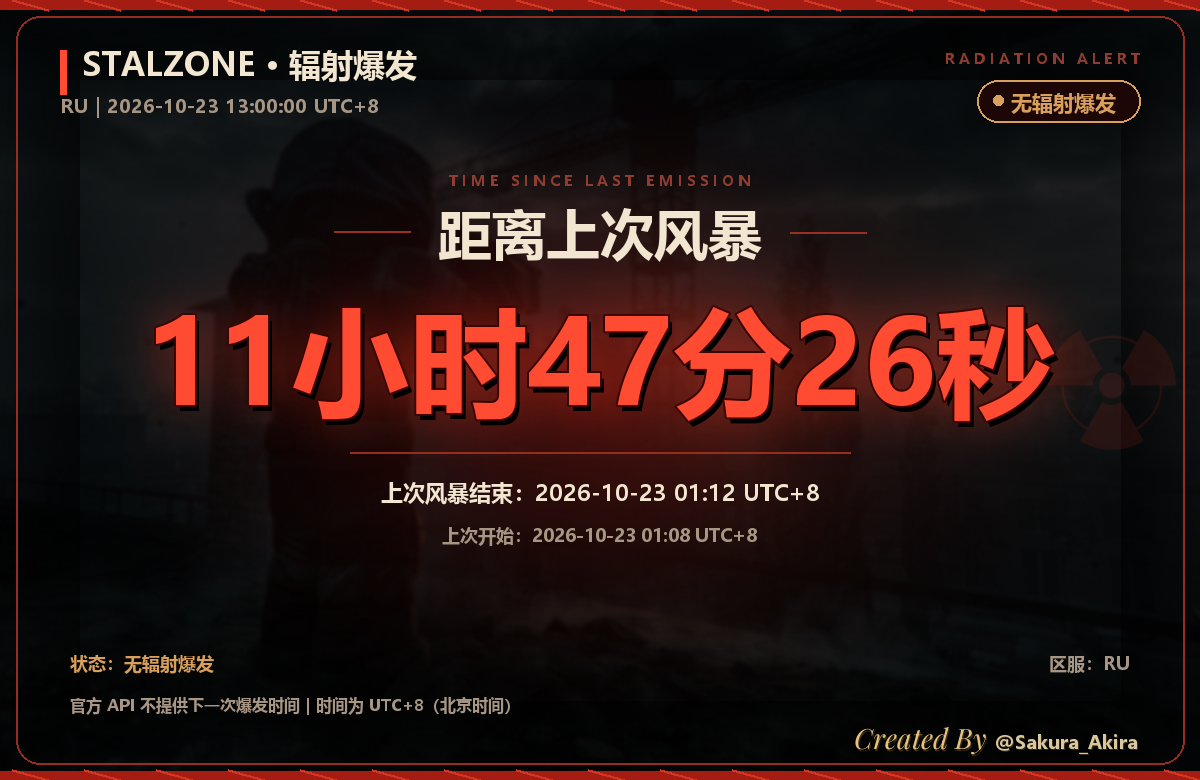
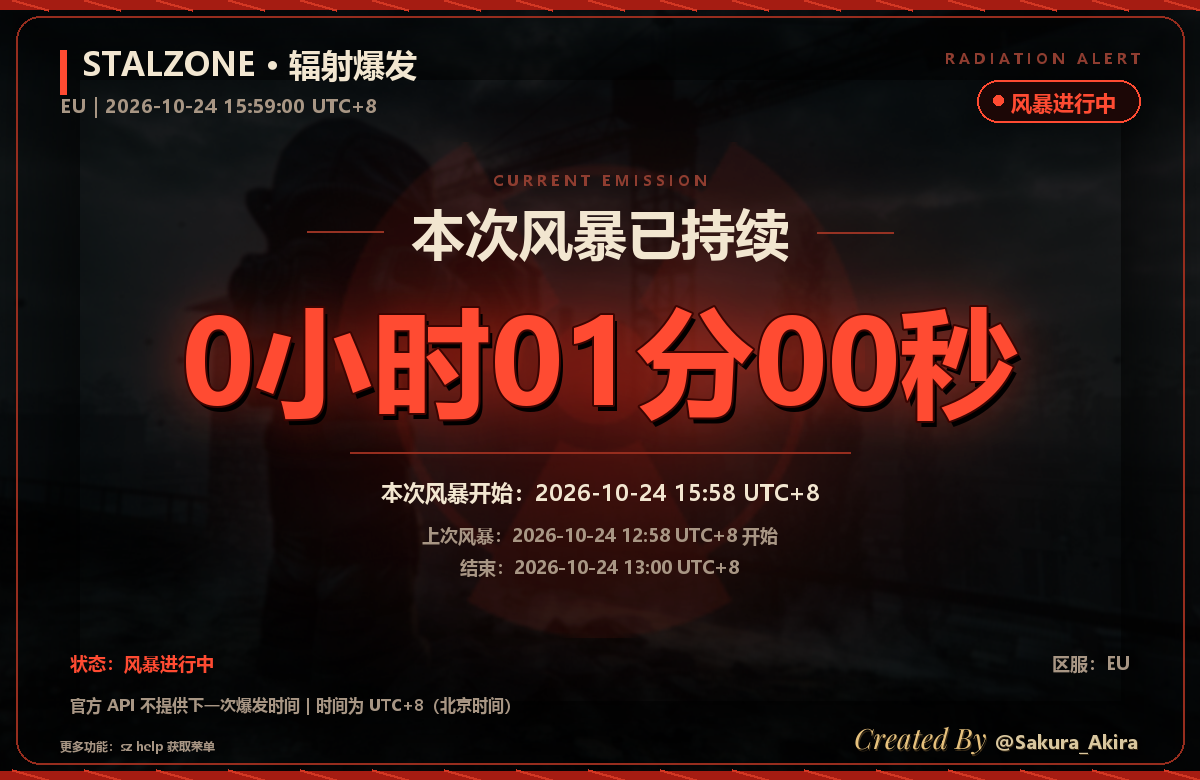
style: refine emission watermark and card footers
Center and soften the radiation watermark, use the real storm start in the auto alert, add artifact-window guidance, and add a theme-matched sz help hint to every non-help card.

diff --git a/image_renderer.py b/image_renderer.py
@@ -40,6 +40,7 @@ SIGNATURE_NAME = "@Sakura_Akira"
 SIGNATURE = f"{SIGNATURE_PREFIX} {SIGNATURE_NAME}"
 SIGNATURE_COLOR = "#e7c27d"
 SIGNATURE_HEIGHT = 38
+MORE_FEATURES_TIP = "更多功能：sz help 获取菜单"
 RANK_COLORS = {
     "newbie": "#53C353",
     "stalker": "#4EA8FF",
@@ -949,13 +950,17 @@ def _emission_canvas(width: int, height: int) -> Any:
     icon_path = Path(__file__).with_name("assets") / "factions" / "stalkers.png"
     try:
         icon = Image.open(icon_path).convert("RGBA")
-        icon.thumbnail((560, 560), Image.LANCZOS)
-        alpha = icon.getchannel("A").point(lambda value: int(value * 0.14))
+        icon_size = max(380, int(min(width, height) * 0.68))
+        scale = icon_size / max(icon.size)
+        icon = icon.resize(
+            (int(icon.width * scale), int(icon.height * scale)), Image.LANCZOS
+        )
+        alpha = icon.getchannel("A").point(lambda value: int(value * 0.10))
         tint = Image.new("RGBA", icon.size, (190, 38, 22, 255))
         tint.putalpha(alpha)
         canvas.alpha_composite(
             tint,
-            (width - icon.width - 24, max(120, (height - icon.height) // 2)),
+            ((width - icon.width) // 2, (height - icon.height) // 2),
         )
     except Exception:
         pass
@@ -980,7 +985,7 @@ def render_emission_alert_card(
     *,
     font_path: str | None = None,
     width: int = 1200,
-    height: int = 660,
+    height: int = 700,
 ) -> Path | None:
     """Render the proactive "emission started" alert in the same poster style."""
     if (
@@ -1007,6 +1012,8 @@ def render_emission_alert_card(
         small_font = ImageFont.truetype(str(path), 16)
         chip_font = ImageFont.truetype(str(path), 18)
         action_font = ImageFont.truetype(str(path), 27)
+        artifact_font = ImageFont.truetype(str(path), 20)
+        tip_font = ImageFont.truetype(str(path), 14)
     except Exception:
         return None
 
@@ -1059,29 +1066,52 @@ def render_emission_alert_card(
     )
     draw.text(
         (centre, 390),
-        f"开始于 {view.get('start_date', '')}  ·  {view.get('region', '')}",
+        f"实际开始于 {view.get('start_date', '')}  ·  {view.get('region', '')}",
         font=sub_font, fill=bone, anchor="mm",
     )
     draw.text(
         (centre, 424),
-        f"检测时已持续 {view.get('elapsed_text', '—')}",
+        f"已持续 {view.get('elapsed_text', '—')}",
         font=small_font, fill=muted, anchor="mm",
     )
-    draw.text((centre, 480), "请尽快上线", font=action_font, fill=ember, anchor="mm")
-
-    draw.line((pad, 530, width - pad, 530), fill=(150, 45, 30, 130), width=1)
     draw.text(
-        (pad, 546),
-        f"检测时间：{view.get('detected_time', '')}",
+        (centre, 466),
+        str(view.get("artifact_notice") or "风暴结束后 30 分钟内将伴随神器爆发"),
+        font=artifact_font, fill="#ffb27a", anchor="mm",
+    )
+    draw.text((centre, 506), "请尽快上线", font=action_font, fill=ember, anchor="mm")
+
+    draw.line((pad, 546, width - pad, 546), fill=(150, 45, 30, 130), width=1)
+    draw.text(
+        (pad, 562),
+        f"实际开始：{view.get('start_time', '')}",
         font=small_font, fill=muted,
     )
     draw.text(
-        (width - pad, 546),
+        (width - pad, 562),
         "自动检测 · 官方 API · UTC+8",
         font=small_font, fill=muted, anchor="ra",
     )
+    draw.text(
+        (pad, height - 70),
+        str(view.get("more_tip") or "更多功能：sz help 获取菜单"),
+        font=tip_font,
+        fill=muted,
+    )
+    draw.text(
+        (pad, height - 42),
+        str(view.get("artifact_tip") or "Tip：神器会在大世界的各处异常点中生成"),
+        font=tip_font,
+        fill=muted,
+    )
     _draw_signature(
-        draw, width, height - 48, path, small_font, max_bottom=height,
+        draw,
+        width,
+        height - 58,
+        path,
+        small_font,
+        max_bottom=height,
+        more_tip=False,
     )
 
     out_dir = Path(tempfile.gettempdir()) / "astrbot_plugin_stalzone"
@@ -1291,6 +1321,8 @@ def render_emission_card(
         small_font,
         right_margin=62,
         max_bottom=height,
+        tip_color=muted,
+        tip_x=pad,
     )
 
     out_dir = Path(tempfile.gettempdir()) / "astrbot_plugin_stalzone"
@@ -1502,6 +1534,7 @@ def render_help_card(
         small_font,
         right_margin=60,
         max_bottom=height,
+        more_tip=False,
     )
 
     if output is not None:
@@ -1552,6 +1585,9 @@ def _draw_signature(
     *,
     right_margin: int = PAD,
     max_bottom: int | None = None,
+    more_tip: bool = True,
+    tip_color: str = MUTED,
+    tip_x: int = PAD,
 ) -> int:
     """Draw the bottom-right artistic signature with a shared text baseline."""
     if ImageFont is None:
@@ -1586,6 +1622,22 @@ def _draw_signature(
     baseline = y + max(art_ascent, name_ascent)
     art_top = baseline - art_ascent
     name_top = baseline - name_ascent
+    if more_tip:
+        tip_font = None
+        for size in (12, 11):
+            try:
+                tip_font = ImageFont.truetype(str(name_path or art_path), size)
+                break
+            except Exception:
+                continue
+        if tip_font is not None:
+            bottom = int(max_bottom) if max_bottom is not None else int(y + 44)
+            draw.text(
+                (tip_x, bottom - 42),
+                MORE_FEATURES_TIP,
+                font=tip_font,
+                fill=tip_color,
+            )
     # Soft drop shadow + gold script text; both parts share one baseline.
     draw.text(
         (x + 1, art_top + 2),
@@ -1978,7 +2030,13 @@ def render_profile_card(
         font=small_font, fill=MUTED,
     )
     _draw_signature(
-        draw, width, footer_y + 62, path, small_font, max_bottom=height,
+        draw,
+        width,
+        footer_y + 62,
+        path,
+        small_font,
+        max_bottom=height,
+        tip_x=60,
     )
 
     out_dir = Path(tempfile.gettempdir()) / "astrbot_plugin_stalzone"
@@ -2404,7 +2462,9 @@ def render_pass_card(
         (PAD, footer_y + 12), str(view.get("footer") or ""),
         font=small_font, fill=MUTED,
     )
-    _draw_signature(draw, W, height - 58, path, small_font, max_bottom=height)
+    _draw_signature(
+        draw, W, height - 58, path, small_font, max_bottom=height, tip_x=PAD
+    )
 
     out_dir = Path(tempfile.gettempdir()) / "astrbot_plugin_stalzone"
     out_dir.mkdir(parents=True, exist_ok=True)
@@ -2647,6 +2707,7 @@ def render_candidate_card(
         footer_font,
         right_margin=58,
         max_bottom=height,
+        tip_x=pad,
     )
 
     out_dir = Path(tempfile.gettempdir()) / "astrbot_plugin_stalzone"

diff --git a/tests/test_plugin.py b/tests/test_plugin.py
@@ -733,9 +733,26 @@ class FormatterTests(unittest.TestCase):
         self.assertEqual(view["start_clock"], "13:00")
         self.assertEqual(view["start_date"], "2026-10-22")
         self.assertEqual(view["elapsed_text"], "17分00秒")
+        self.assertEqual(view["start_time"], "2026-10-22 13:00:00 UTC+8")
+        self.assertIn("风暴结束后 30 分钟内将伴随神器爆发", view["text"])
+        self.assertIn("Tip：神器会在大世界的各处异常点中生成", view["text"])
+        self.assertIn("更多功能：sz help 获取菜单", view["text"])
         self.assertIn("辐射风暴已开始", view["text"])
         self.assertIn("请尽快上线", view["text"])
+        self.assertNotIn("检测时间", view["text"])
         self.assertEqual(build_emission_alert_view({}, "eu"), {})
+
+    def test_emission_alert_uses_actual_start(self):
+        view = build_emission_alert_view(
+            {"currentStart": "2026-10-22T05:00:00Z"},
+            "eu",
+            now=__import__("datetime").datetime(
+                2026, 10, 22, 5, 1, tzinfo=__import__("datetime").timezone.utc
+            ),
+        )
+        self.assertEqual(view["start_clock"], "13:00")
+        self.assertEqual(view["elapsed_text"], "1分00秒")
+        self.assertIn("实际开始：2026-10-22 13:00:00 UTC+8", view["text"])
 
     def test_profile_fields(self):
         payload = {
@@ -1670,7 +1687,7 @@ class ImageRendererTests(unittest.TestCase):
         path = render_emission_alert_card(view)
         self.assertIsNotNone(path)
         with Image.open(path) as image:
-            self.assertEqual(image.size, (1200, 660))
+            self.assertEqual(image.size, (1200, 700))
         path.unlink(missing_ok=True)
 
     @unittest.skipUnless(find_cjk_font(), "No CJK font installed")

diff --git a/formatters.py b/formatters.py
@@ -1240,7 +1240,6 @@ def build_emission_alert_view(
         now_utc = now_utc.replace(tzinfo=timezone.utc)
     now_utc = now_utc.astimezone(timezone.utc)
     start = current.astimezone(CST)
-    detected = now_utc.astimezone(CST)
     elapsed = max(0, int((now_utc - current).total_seconds()))
     if elapsed >= 3600:
         elapsed_text = format_elapsed_hms(elapsed)
@@ -1254,16 +1253,21 @@ def build_emission_alert_view(
         "start_time": start.strftime("%Y-%m-%d %H:%M:%S") + " UTC+8",
         "start_clock": start.strftime("%H:%M"),
         "start_date": start.strftime("%Y-%m-%d"),
-        "detected_time": detected.strftime("%Y-%m-%d %H:%M:%S") + " UTC+8",
         "elapsed_text": elapsed_text,
+        "artifact_notice": "风暴结束后 30 分钟内将伴随神器爆发",
+        "artifact_tip": "Tip：神器会在大世界的各处异常点中生成",
+        "more_tip": "更多功能：sz help 获取菜单",
         "state_label": "风暴进行中",
         "footer": "自动检测 · 官方 API · UTC+8",
         "text": chr(10).join(
             [
                 f"辐射风暴已开始｜{str(region).upper()}",
-                f"开始时间：{start.strftime('%Y-%m-%d %H:%M:%S')} UTC+8",
+                f"实际开始：{start.strftime('%Y-%m-%d %H:%M:%S')} UTC+8",
                 f"当前已持续：{elapsed_text}",
+                "风暴结束后 30 分钟内将伴随神器爆发。",
                 "请尽快上线。",
+                "Tip：神器会在大世界的各处异常点中生成",
+                "更多功能：sz help 获取菜单",
             ]
         ),
     }

diff --git a/api_client.py b/api_client.py
@@ -29,7 +29,7 @@ DEFAULT_MAX_RETRIES = 2
 DEFAULT_RETRY_BASE_DELAY = 0.5
 RETRY_STATUS_CODES = frozenset({429, 500, 502, 503, 504})
 VALID_REGIONS = frozenset({"ru", "eu", "na", "sea", "nea"})
-USER_AGENT = "astrbot-plugin-stalzone/1.0.34"
+USER_AGENT = "astrbot-plugin-stalzone/1.0.35"
 
 _ITEM_ID_RE = re.compile(r"^[^\x00-\x1f/\\]{1,128}$")
 

diff --git a/main.py b/main.py
@@ -192,7 +192,7 @@ UUID_RE = re.compile(
     r"^[0-9a-fA-F]{8}-[0-9a-fA-F]{4}-[0-9a-fA-F]{4}-[0-9a-fA-F]{4}-[0-9a-fA-F]{12}$"
 )
 ITEM_ID_RE = re.compile(r"^[A-Za-z0-9_-]{1,128}$")
-PLUGIN_VERSION = "1.0.34"
+PLUGIN_VERSION = "1.0.35"
 SZ_BARE_RE = r"(?i)^\s*(?:sz|stalzone)(?:@\S+)?\s+"
 
 

diff --git a/README.md b/README.md
@@ -7,7 +7,7 @@
 拍卖 · 风暴 · 玩家 · 战队 · 物品 · 候选卡 · 通行证计算
 
 ![AstrBot](https://img.shields.io/badge/AstrBot-plugin-5865F2?style=flat-square)
-![Version](https://img.shields.io/badge/version-1.0.34-22c55e?style=flat-square)
+![Version](https://img.shields.io/badge/version-1.0.35-22c55e?style=flat-square)
 ![Python](https://img.shields.io/badge/Python-3.10%2B-3776AB?style=flat-square)
 ![Platform](https://img.shields.io/badge/platform-QQ%20%2F%20OneBot-F97316?style=flat-square)
 ![API](https://img.shields.io/badge/data-Official%20STALZONE%20API-0EA5E9?style=flat-square)
@@ -66,7 +66,7 @@
 | --- | --- |
 | **拍卖行** | 当前在售、最近成交与按日期查询；神器按品质从高到低分组，非神器按 `物品×数量` 展示起拍、买断、单价和剩余时间，并标出最低单价 |
 | **辐射风暴** | 以「距离上次风暴」为主视觉的大字计时卡，同时展示当前风暴状态、上次开始/结束时间 |
-| **自动风暴提醒** | 默认开启；只在上一场结束后的 2–4 小时窗口内每分钟查询，检测到新风暴后主动发送「风暴已开始」警报图 |
+| **自动风暴提醒** | 默认开启；只在上一场结束后的 2–4 小时窗口内每分钟查询，检测到新风暴后主动发送「风暴已开始」警报图，并提示风暴结束后的神器爆发 |
 | **玩家档案** | 战术档案卡、阵营徽记、战队/职位、PvP 估算分和完整统计；区服胶囊居中显示，不推断在线状态 |
 | **战队** | 按名称、标签或 UUID 查询；4 个英文字母的标签精确匹配，不区分大小写；支持战队列表 |
 | **物品图鉴** | 2,615 件物品的中/英/俄/ID 索引，1,338 件详情与 2,600 个离线图标；属性按语义红绿着色 |
@@ -138,7 +138,7 @@
 | `text` | 始终发送卡片式纯文本，适合低配容器 |
 | `image` | 强制图片；渲染失败时仍会回退文本，不影响指令可用性 |
 
-图片卡片包括：帮助菜单、拍卖行、玩家档案、辐射风暴、物品详情、候选列表、战队资料和通行证预测。卡片使用官方壁纸暗色背景、品质色与语义色，署名位于右下角。
+图片卡片包括：帮助菜单、拍卖行、玩家档案、辐射风暴、物品详情、候选列表、战队资料和通行证预测。卡片使用官方壁纸暗色背景、品质色与语义色，署名位于右下角；除帮助菜单外，左下角会附带一行与卡片风格一致的低调「更多功能：sz help 获取菜单」提示。
 
 候选列表为两列卡片，每行最多两个物品；行数按候选数量增长，最多展示最接近的前 20 个。物品图标优先使用离线图标；2,600 件已随包分发，缺失时再批量从 CDN 补齐并缓存，源站没有图片的条目显示「暂无图标」而不是问号。
 
@@ -170,7 +170,7 @@
 - `emission_auto_state.json` 保存在 AstrBot 插件数据目录，记录上次结束时间、是否进行中、已提醒的开始时间和最近会话；重启后据此恢复，不会因重启丢失窗口或重复提醒。
 - 目标优先级：配置中的 `emission_notify_target` → 最近一次使用 `/sz` 的会话。首次安装后若还没有任何群指令记录，先配置目标或在群里发一次查询。
 
-自动警报使用与 `/sz 风暴` 相同的末日风卡片，但主视觉是「风暴已开始」+ 大字开始时间，而不是持续时长，便于直接提醒群友上线。图片渲染不可用时会退回文字提醒。
+自动警报使用与 `/sz 风暴` 相同的末日风卡片，但主视觉是「风暴已开始」+ 大字实际开始时间，而不是检测时间或持续时长；图中同时提示「风暴结束后 30 分钟内将伴随神器爆发」，底部标注神器生成位置。图片渲染不可用时会退回文字提醒。
 
 ### 自定义物品别名（无需重建索引）
 
@@ -278,7 +278,7 @@ astrbot_plugin_stalzone/
 python -m unittest discover -s tests -v
 ```
 
-当前测试覆盖 API 客户端、格式化、物品索引、PDA 富文本、图片渲染、候选卡、区服参数、缓存与主流程，共 **165 个测试**；GitHub Actions 在 Windows / Linux、Python 3.10 / 3.12 上自动跑测试，并执行覆盖率门槛（当前 79%，门槛 75%）。
+当前测试覆盖 API 客户端、格式化、物品索引、PDA 富文本、图片渲染、候选卡、区服参数、缓存与主流程，共 **166 个测试**；GitHub Actions 在 Windows / Linux、Python 3.10 / 3.12 上自动跑测试，并执行覆盖率门槛（当前 79%，门槛 75%）。
 
 演示服冒烟测试（需要演示应用凭证）：
 

diff --git a/README.en.md b/README.en.md
@@ -7,7 +7,7 @@
 Auction · Emissions · Players · Clans · Items · Candidates · Season Pass
 
 ![AstrBot](https://img.shields.io/badge/AstrBot-plugin-5865F2?style=flat-square)
-![Version](https://img.shields.io/badge/version-1.0.34-22c55e?style=flat-square)
+![Version](https://img.shields.io/badge/version-1.0.35-22c55e?style=flat-square)
 ![Python](https://img.shields.io/badge/Python-3.10%2B-3776AB?style=flat-square)
 ![Platform](https://img.shields.io/badge/platform-QQ%20%2F%20OneBot-F97316?style=flat-square)
 ![API](https://img.shields.io/badge/data-Official%20STALZONE%20API-0EA5E9?style=flat-square)
@@ -29,7 +29,7 @@ Real-time data comes from the official API. Credentials stay in AstrBot configur
 | --- | --- |
 | Auction | Active lots and sold history, quality groups, stacked items with unit price and lowest-price marker |
 | Emission | Time since the last emission, current status and region selection |
-| Auto emission alert | Enabled by default; polls once a minute only in the 2–4h window after the previous emission and pushes a distinct "emission started" alert image |
+| Auto emission alert | Enabled by default; polls once a minute only in the 2–4h window and pushes a distinct "emission started" alert image with the artifact window |
 | Player | Tactical dossier, faction emblem, clan, PvP estimate and full stats; the region badge is centered and no online inference is made |
 | Clan | Search by name, tag or UUID; exact 4-letter tag matching; clan list |
 | Item | 2,615 bilingual entries, 1,338 detail records, 2,600 bundled icons, semantic stat colors |
@@ -103,7 +103,7 @@ The game does not start a new emission in the first 2 hours after one ends; the 
 - State is stored in `emission_auto_state.json` under the plugin data directory, including the previous end, active flag, last alerted start and latest target, so a restart neither loses the window nor repeats an alert.
 - Target precedence: `emission_notify_target` → the latest `/sz` session. If no target exists yet, set the config value or run one query in the group first.
 
-The automatic card shares the doomsday emission style but leads with "风暴已开始" and the large start time instead of the elapsed duration. If image rendering is unavailable it falls back to text.
+The automatic card shares the doomsday emission style but leads with "风暴已开始" and the official start time (not the detection time). It also shows the 30-minute artifact window and where artifacts spawn. If image rendering is unavailable it falls back to text.
 
 ## Data notes
 

diff --git a/CHANGELOG.md b/CHANGELOG.md
@@ -3,6 +3,19 @@
 All notable changes to this project are documented here.
 The project follows [Semantic Versioning](https://semver.org/).
 
+## 1.0.35 - 2026-10-24
+
+### Changed
+
+- Moved the radiation trefoil watermark from the right edge to the card centre, enlarged it moderately and faded it behind the content on both emission cards.
+- The automatic alert now uses the official `currentStart` as the displayed storm start, even when detection happens a minute later, and its elapsed line no longer says "检测时".
+- Added the post-storm artifact notice above the "请尽快上线" prompt and a small spawn-location tip at the bottom of the automatic alert.
+- Added a subtle, card-matched "更多功能：sz help 获取菜单" line in the bottom-left corner of every generated card except the help menu.
+
+### Tests
+
+- Added an actual-start-time regression; 166 tests pass.
+
 ## 1.0.34 - 2026-10-24
 
 ### Fixed
